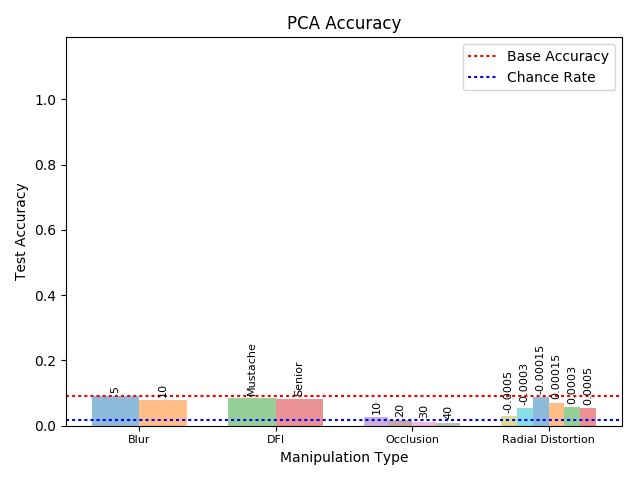
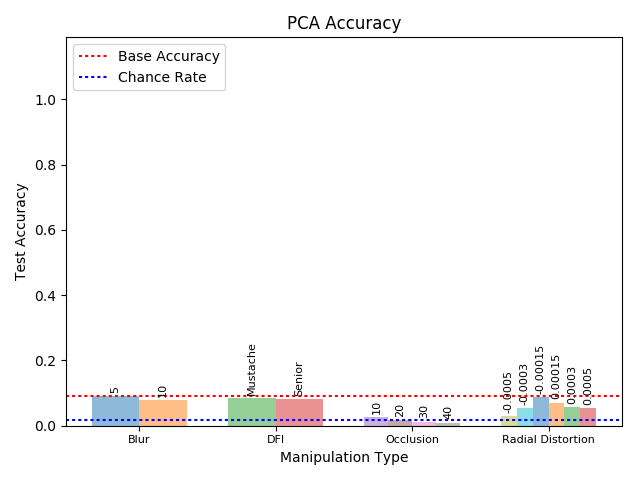
Move legend

Changed region(s): [[0.7812, 0.0938, 0.9688, 0.1875], [0.1875, 0.0938, 0.3438, 0.1875]]

diff --git a/code/analysis.py b/code/analysis.py
@@ -118,7 +118,7 @@ def create_algorithm_accuracies(num_train):
         base_accuracy = algorithm_results[algorithm_results['Manipulation Type'] == 'none']['Test Accuracy'].iloc[0]
         base_accuracy_line = ax.axhline(y=base_accuracy, color='r', linestyle=':')
         chance_rate_line = ax.axhline(y=CHANCE_RATE, color='b', linestyle=':')
-        ax.legend([base_accuracy_line, chance_rate_line], ['Base Accuracy', 'Chance Rate'])
+        ax.legend([base_accuracy_line, chance_rate_line], ['Base Accuracy', 'Chance Rate'], loc='upper left')
 
         ax.set_ylabel("Test Accuracy")
         ax.set_title("%s Accuracy" % algorithm)
@@ -229,7 +229,7 @@ def plot_manipulation_impact(normalized_average=True):
 
 if __name__ == "__main__":
     # create_all_traintestsplit_default_accuracies()
-    create_manipulation_accuracies(15)
+    # create_manipulation_accuracies(15)
     create_algorithm_accuracies(15)
 #    compute_manipulation_impact(15)
 #    plot_manipulation_impact(True)
